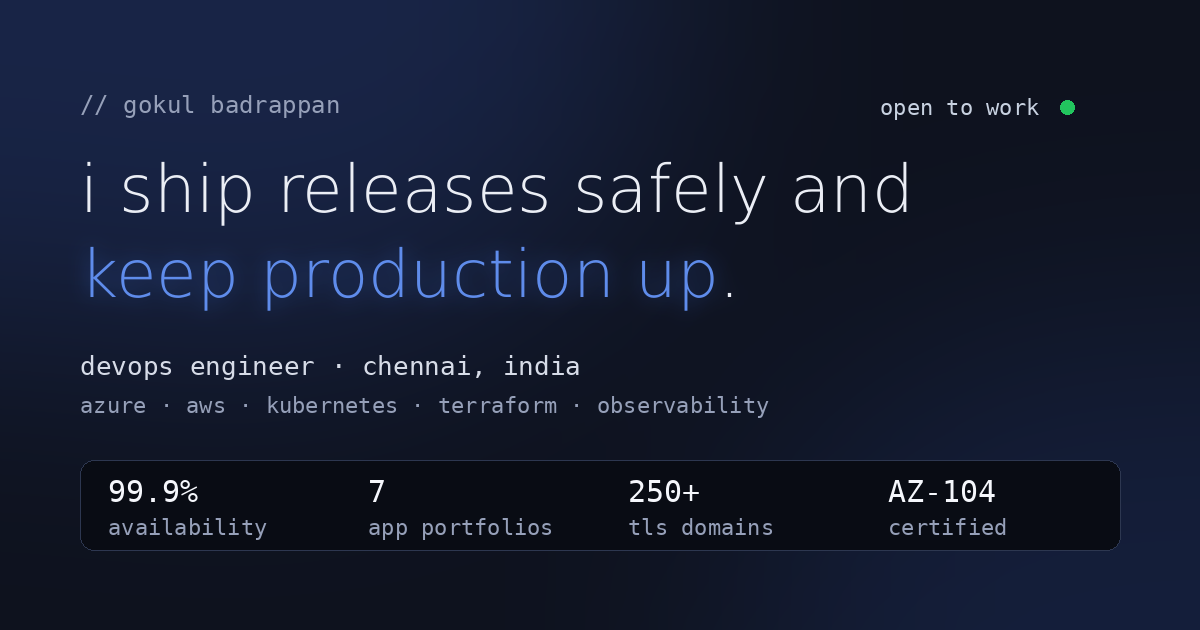
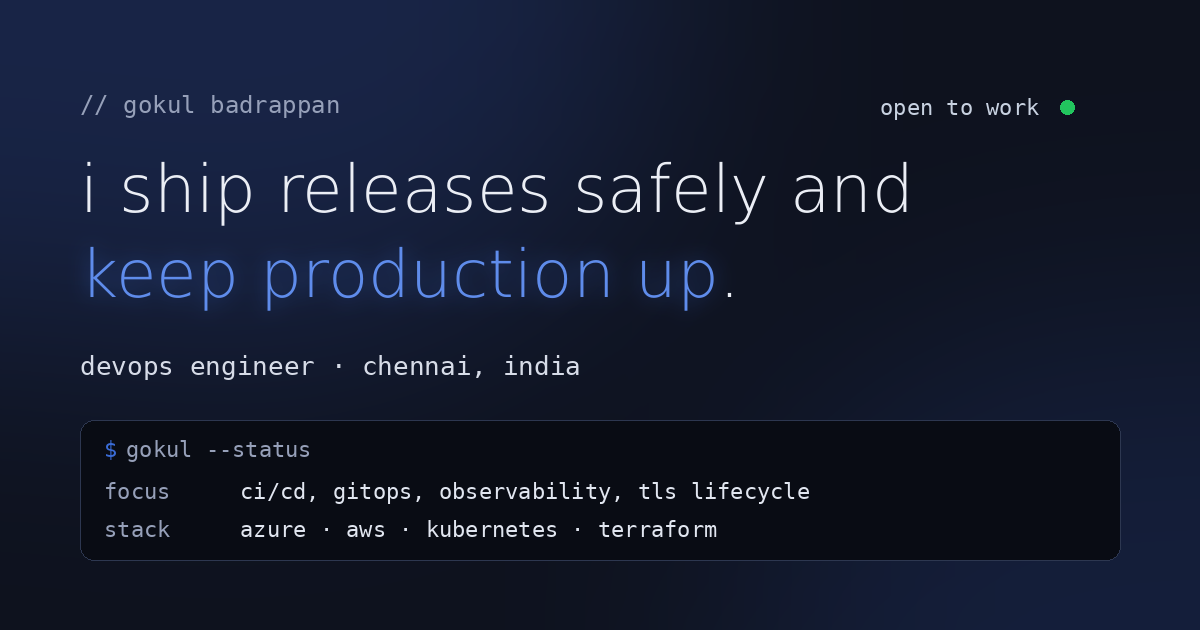
Replace hero metrics with a descriptive status readout; add CCA-F certification

diff --git a/src/components/Hero.tsx b/src/components/Hero.tsx
@@ -1,6 +1,6 @@
 import { motion } from "framer-motion";
 import { Briefcase } from "lucide-react";
-import { hero, proofMetrics } from "@/data/portfolio";
+import { hero, statusLines } from "@/data/portfolio";
 import { ResumeButton } from "./ResumeButton";
 
 const GLOW_STYLE = { color: "rgb(58,108,215)" };
@@ -21,33 +21,21 @@ function HeadlineWithGlow({ text, glow }: { text: string; glow: string }) {
 
 function StatusReadout() {
   return (
-    <div
-      className="w-full max-w-2xl rounded-xl border border-white/10 bg-black/40 text-left overflow-x-auto"
-      role="table"
-      aria-label="Key results"
-    >
+    <div className="w-full max-w-2xl rounded-xl border border-white/10 bg-black/40 text-left overflow-x-auto">
       <div className="px-4 py-2 border-b border-white/10 font-mono text-[11px] text-white/60">
         <span className="text-[rgb(58,108,215)]">$</span> gokul --status
       </div>
-      <div className="px-4 py-3 font-mono text-xs sm:text-sm">
-        {proofMetrics.map((m) => (
+      <dl className="px-4 py-3 font-mono text-xs sm:text-sm">
+        {statusLines.map((line) => (
           <div
-            key={m.key}
-            role="row"
-            className="grid grid-cols-[6.5rem_4rem_1fr] sm:grid-cols-[8rem_5rem_1fr] gap-x-3 py-1"
+            key={line.key}
+            className="grid grid-cols-[5.5rem_1fr] sm:grid-cols-[7rem_1fr] gap-x-3 py-1"
           >
-            <span role="cell" className="text-white/60">
-              {m.key}
-            </span>
-            <span role="cell" className="text-white text-glow">
-              {m.value}
-            </span>
-            <span role="cell" className="text-white/70 lowercase">
-              {m.label}
-            </span>
+            <dt className="text-white/60">{line.key}</dt>
+            <dd className="text-white/85 lowercase">{line.value}</dd>
           </div>
         ))}
-      </div>
+      </dl>
     </div>
   );
 }
@@ -80,7 +68,6 @@ export function Hero() {
         className="mt-6 flex flex-col items-center gap-2"
       >
         <p className="font-mono text-sm text-white/80 lowercase">{hero.role}</p>
-        <p className="font-mono text-xs text-white/60 lowercase">{hero.subtitleTags.join(" · ")}</p>
       </motion.div>
 
       <motion.div

diff --git a/src/data/portfolio.ts b/src/data/portfolio.ts
@@ -7,19 +7,19 @@ export const hero = {
   role: "devops engineer · chennai, india",
   headline: "i ship releases safely and keep production up.",
   glowingWord: "keep production up",
-  subtitleTags: ["azure", "aws", "kubernetes", "terraform", "observability"],
   availability: "open to freelance devops work",
 };
 
 export const overview =
   "DevOps engineer with 1.5 years of enterprise release orchestration, infrastructure automation, and platform observability on Azure. I own CI/CD delivery across 7 application portfolios and 4 environment tiers, and build GitOps, DevSecOps, and monitoring setups on the side. Azure and AWS certified.";
 
-/** Rendered as a terminal-style status readout in the hero. All figures come from the resume. */
-export const proofMetrics = [
-  { key: "availability", value: "99.9%", label: "sustained on supported enterprise apps" },
-  { key: "releases", value: "7", label: "app portfolios across 4 environment tiers" },
-  { key: "tls", value: "250+", label: "domains, zero expiry-driven outages" },
-  { key: "toil", value: "-60%", label: "time per ops task after automation" },
+/** Rendered as a `gokul --status` terminal readout in the hero. Describes the work, not numbers. */
+export const statusLines = [
+  { key: "currently", value: "devops engineer on enterprise azure releases" },
+  { key: "focus", value: "ci/cd, gitops, observability, tls certificate lifecycle" },
+  { key: "building", value: "ai inference gateway on aws (terraform, ecs fargate)" },
+  { key: "stack", value: "azure · aws · kubernetes · terraform · prometheus" },
+  { key: "open to", value: "devops / sre roles and freelance projects" },
 ];
 
 export const resume = {
@@ -198,6 +198,14 @@ export const certifications: Certification[] = [
     code: "CLF-C02",
     name: "AWS Certified Cloud Practitioner",
     year: "dec 2025",
+    verify: "",
+  },
+  {
+    id: "cca-f",
+    vendor: "anthropic",
+    code: "CCA-F",
+    name: "Claude Certified Architect, Foundations",
+    year: "2026",
     verify: "",
   },
 ];
